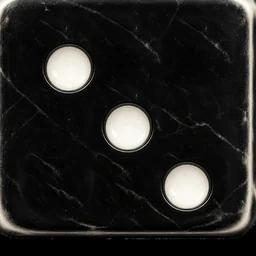
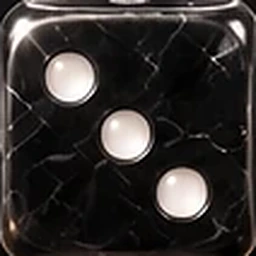
요트 히어로즈 v0.30.0: 주사위 스킨 8종을 새 디자인 시트로 교체
- 디자인 시트(1536×1024) 한 장에서 하트·키캡·투명·미니멀·황금·우주·블랙·오픈하츠 면 1~6을 오려 assets/dice/<스킨>/ 로 (tools/make_dice_from_sheet.py)
- 하트·키캡·투명·미니멀도 면 그림 스킨으로 (DIE_MAT image: true). 투명은 반투명 재질 대신 그림, 미니멀은 만화풍 외곽선 대신 그림
- 오픈하츠 숫자 정렬(upright) 해제 — 눈이 빛나는 둥근 램프로 바뀜
- sw.js 오프라인 캐시에 새 스킨 면 그림 추가, 스킨 설명 문구 갱신

Claude-Session: https://claude.ai/code/session_014gChBYzVF9cfUwsBghVSK5

diff --git a/dice-heroes/skins.js b/dice-heroes/skins.js
@@ -6,13 +6,13 @@
 // sound: 굴릴 때 부딪히는 소리 (audio.js sfx.hit)
 export const DICE_SKINS = [
   { id: 'classic', name: '기본', desc: '상아색 기본 주사위', tier: 'free', sound: 'classic' },
-  { id: 'openheart', name: '오픈하츠', desc: '톱니가 비치는 구리 스켈레톤 · 숫자 눈 · 은빛 찰캉 소리', tier: 'special', sound: 'silver' },
+  { id: 'openheart', name: '오픈하츠', desc: '톱니바퀴가 맞물린 구리 시계 · 빛나는 눈 · 은빛 찰캉 소리', tier: 'special', sound: 'silver' },
   { id: 'gold', name: '황금', desc: '온통 순금 · 새겨진 눈 · 금화 소리', tier: 'special', sound: 'coin' },
-  { id: 'minimal', name: '미니멀', desc: '굵은 선의 만화풍 · 톡톡 소리', tier: 'special', sound: 'soft' },
+  { id: 'minimal', name: '미니멀', desc: '매끈하게 윤나는 하얀 주사위 · 톡톡 소리', tier: 'special', sound: 'soft' },
   { id: 'cosmic', name: '우주', desc: '은하수가 반짝이는 밤하늘 · 반짝 소리', tier: 'special', sound: 'twinkle' },
   { id: 'black', name: '블랙', desc: '기본 주사위의 흑백 반전', tier: 'special', sound: 'classic' },
-  { id: 'clear', name: '투명', desc: '추억의 투명 주사위 · 유리 소리', tier: 'special', sound: 'glass' },
-  { id: 'heart', name: '하트', desc: '연분홍에 하트 눈 · 뿅뿅', tier: 'special', sound: 'pop' },
+  { id: 'clear', name: '투명', desc: '무지갯빛이 번지는 유리 주사위 · 유리 소리', tier: 'special', sound: 'glass' },
+  { id: 'heart', name: '하트', desc: '반짝이는 연분홍에 하트 눈 · 뿅뿅', tier: 'special', sound: 'pop' },
   { id: 'keycap', name: '키캡', desc: '기계식 키보드 키캡 · 도각 소리', tier: 'special', sound: 'key' },
 ];
 
@@ -49,15 +49,16 @@ const PIP_POS = {
 //   upright: 숫자 눈 — 굴린 뒤 윗면 숫자의 머리가 화면 위쪽을 향하게 세운다
 const DIE_MAT = {
   classic: { roughness: 0.32, metalness: 0.02 },
-  // image: 디자인 렌더로 만든 면 그림(assets/dice/<스킨>/1~6.webp, tools/make_dice_textures.py). 그림에 음영이 이미 들어 있다
-  openheart: { roughness: 0.4, metalness: 0.45, env: 0.8, image: true, upright: true },
+  // image: 디자인 시트에서 오려 낸 면 그림(assets/dice/<스킨>/1~6.webp, tools/make_dice_from_sheet.py). 그림에 음영이 이미 들어 있다
+// 기본(classic)만 코드로 그린다. 예전 코드 그림(하트·키캡·투명·미니멀)은 drawDieFace 에 그대로 남아 있다 — image 줄만 지우면 되돌아간다
+  openheart: { roughness: 0.4, metalness: 0.45, env: 0.8, image: true },
   gold: { roughness: 0.28, metalness: 0.35, env: 0.9, image: true },
-  minimal: { toon: true, outline: true },
+  minimal: { roughness: 0.3, metalness: 0.0, env: 0.35, image: true },
   cosmic: { roughness: 0.25, metalness: 0.1, env: 0.5, image: true, selfGlow: 0.35, twinkle: true },
   black: { roughness: 0.28, metalness: 0.1, env: 0.6, image: true },
-  clear: { roughness: 0.04, metalness: 0.0, env: 1.1, clear: true },
-  heart: { roughness: 0.24, metalness: 0.0, env: 0.35 },
-  keycap: { roughness: 0.7, metalness: 0.0, env: 0.15, upright: true },
+  clear: { roughness: 0.12, metalness: 0.0, env: 0.9, image: true, selfGlow: 0.18 },
+  heart: { roughness: 0.3, metalness: 0.0, env: 0.4, image: true },
+  keycap: { roughness: 0.6, metalness: 0.0, env: 0.2, image: true },
 };
 export const dieMatParams = id => DIE_MAT[id] || DIE_MAT.classic;
 export const dieGlows = id => !!DIE_MAT[id]?.glow;

diff --git a/dice-heroes/sw.js b/dice-heroes/sw.js
@@ -14,7 +14,7 @@ const FILES = [
   'assets/boss/demon.png', 'assets/boss/demon_rage.png',
   ...['warrior', 'rogue', 'mage', 'bard', 'gambler', 'monk', 'dancer', 'outlaw', 'sharper'].map(k => `assets/heroes/${k}.webp`),
   // 그림 주사위 스킨 (오프라인에서 꾸미기를 바꿔도 보이게)
-  ...['openheart', 'gold', 'cosmic', 'black'].flatMap(k => [1, 2, 3, 4, 5, 6].map(v => `assets/dice/${k}/${v}.webp`)),
+  ...['openheart', 'gold', 'cosmic', 'black', 'heart', 'keycap', 'clear', 'minimal'].flatMap(k => [1, 2, 3, 4, 5, 6].map(v => `assets/dice/${k}/${v}.webp`)),
 ];
 const NET_WAIT = 4000;   // 약한 신호: 이만큼 기다려도 답이 없으면 캐시로
 let slowUntil = 0;       // 방금 네트워크가 느렸으면 30초 동안은 캐시부터 (파일마다 4초씩 기다리지 않게)

diff --git a/dice-heroes/config.js b/dice-heroes/config.js
@@ -3,6 +3,6 @@ export const GAME = {
   name: '요트 히어로즈',
   en: 'YACHT HEROES',
   studio: 'HAHAHOHO COMPANY',
-  version: '0.29.2',
+  version: '0.30.0',
   year: 2026,
 };

diff --git a/dice-heroes/tools/make_dice_from_sheet.py b/dice-heroes/tools/make_dice_from_sheet.py
@@ -1,0 +1,59 @@
+"""주사위 스킨 면 텍스처 — 디자인 시트 한 장(tools/dice-src/sheet-v2.webp)에서 오려 낸다.
+
+  python3 tools/make_dice_from_sheet.py        →  assets/dice/<스킨>/<1~6>.webp (256×256)
+  필요: pip install pillow numpy
+
+시트는 1536×1024, 8줄(스킨) × 6칸(1~6면). 칸마다 주사위 앞면의 가운데를 정사각형으로 오려
+256px 로 키운다(시트 한 칸이 약 110px 라 조금 부드럽다). 그림에 음영·반사가 이미 들어 있어서 따로 손대지 않는다.
+키캡은 사다리꼴 옆면을 빼고 눈이 있는 윗면(오목한 판)만 쓴다.
+"""
+import os
+import numpy as np
+from PIL import Image, ImageFilter
+
+HERE = os.path.dirname(os.path.abspath(__file__))
+SHEET = os.path.join(HERE, 'dice-src', 'sheet-v2.webp')
+OUT = os.path.join(HERE, '..', 'assets', 'dice')
+SIZE = 256
+
+# 칸의 가운데 x (1~6면). 시트의 격자는 간격이 조금씩 달라서 실측했다
+CX = [553, 714, 876, 1041, 1207, 1369]
+# 스킨: 줄 번호 → (주사위 앞면 가운데 y, 오려 낼 한 변, 가로 어긋남)
+#   한 변은 주사위 앞면 폭(약 110px)에 대한 픽셀 수. 모서리 둥근 바깥(배경)이 안 들어오게 조금 안쪽으로 잡는다
+SKINS = {
+    'heart':     dict(cy=66,  side=94,  dx=-3),
+    'keycap':    dict(cy=186, box=(-46, -42, 46, 34)),     # 눈이 있는 윗면만 (가운데 기준 상대 좌표)
+    'clear':     dict(cy=315, side=108, dx=0),
+    'minimal':   dict(cy=435, side=102, dx=-2),
+    'gold':      dict(cy=556, side=102, dx=-2),
+    'cosmic':    dict(cy=676, side=106, dx=0),
+    'black':     dict(cy=799, side=106, dx=0),
+    'openheart': dict(cy=938, side=116, dx=0),
+}
+
+
+def crop_face(sheet, name, c):
+    p = SKINS[name]
+    cx = CX[c] + p.get('dx', 0)
+    if 'box' in p:
+        l, t, r, b = p['box']
+        box = (cx + l, p['cy'] + t, cx + r, p['cy'] + b)
+    else:
+        h = p['side'] / 2
+        box = (cx - h, p['cy'] - h, cx + h, p['cy'] + h)
+    face = sheet.crop(tuple(int(round(v)) for v in box)).resize((SIZE, SIZE), Image.LANCZOS)
+    return face.filter(ImageFilter.UnsharpMask(radius=1.4, percent=60, threshold=2))
+
+
+def main():
+    sheet = Image.open(SHEET).convert('RGB')
+    for name in SKINS:
+        d = os.path.join(OUT, name)
+        os.makedirs(d, exist_ok=True)
+        for c in range(6):
+            crop_face(sheet, name, c).save(os.path.join(d, f'{c + 1}.webp'), quality=92, method=6)
+        print(name, 'ok')
+
+
+if __name__ == '__main__':
+    main()

diff --git a/dice-heroes/README.md b/dice-heroes/README.md
@@ -257,7 +257,7 @@ export const BGM_FILES = { title: 'assets/bgm/title.ogg', adventure: 'assets/bgm
 | `app.js` | 화면 흐름(스플래시·타이틀·편성·게임·결과), 입력, 연출 순서 (큰 영웅 동작 `actorIn`·`actorPose`) |
 | `fx.js` | 화면 전체 입자 연출 (점수 공격 구체, 보스 스킬, 분노 불꽃, 화면 흔들림) |
 | `icons.js` | 도트 아이콘 격자와 특성·의뢰·이벤트·보스 능력별 아이콘 표 |
-| `skins.js` | 꾸미기: 주사위 스킨 9종(기본·오픈하츠·황금·미니멀·우주·블랙·투명·하트·키캡, 스킨별 굴림 소리) · 트레이 스킨 7종 (캔버스로 그림, 유료 해금 자리 `isUnlocked`) |
+| `skins.js` | 꾸미기: 주사위 스킨 9종(기본·오픈하츠·황금·미니멀·우주·블랙·투명·하트·키캡, 스킨별 굴림 소리) · 트레이 스킨 7종 (트레이는 캔버스로 그림, 유료 해금 자리 `isUnlocked`). 기본을 뺀 8종 주사위 면은 디자인 시트 한 장(`tools/dice-src/sheet-v2.webp`)에서 `tools/make_dice_from_sheet.py` 로 오려 `assets/dice/<스킨>/1~6.webp` 로 만든다 (v0.30). 키캡은 시트의 사다리꼴 모양이 아니라 눈이 있는 윗면만 입힌다. 예전 코드 그림(하트·키캡·투명·미니멀)은 `drawDieFace` 에 남아 있어 `DIE_MAT` 의 `image: true` 만 지우면 되돌아간다. 바꾸기 직전 상태(v0.29.2)는 브랜치 `backup/dice-heroes-dice-v1` |
 | `dice3d.js` | 3D 주사위 트레이 (물리 궤적 녹화 → 결과 면 매핑 → 재생). 고정한 주사위는 굴릴 때 트레이 아래 나무 주사위 함으로 옮겨 가 굴리는 길을 막지 않는다 |
 | `audio.js` | 칩튠 시퀀서 · 효과음 · 음량 설정 (효과음이 묻히지 않게 채널 비율 + 배경음악 더킹). 협동모드 보스별 곡 `boss_dragon` · `boss_orc` · `boss_lich`, 음원 파일은 `BGM_FILES` → `assets/bgm/` |
 | `pixel.js` · `scenes.js` | 스프라이트(그림 파일 · 예전 도트)와 타이틀 장면 |
